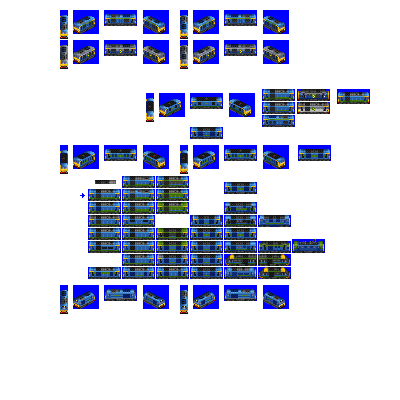
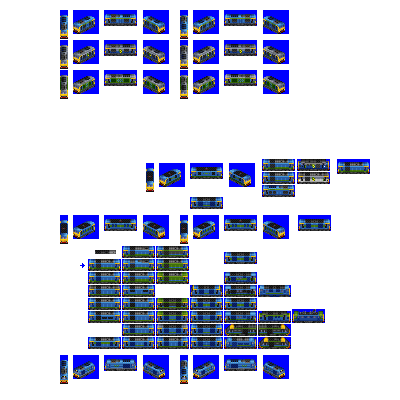
Change: move Super Stentor and Highlander liveries into Stentor and Cheddar Valley as variants

diff --git a/src/vehicles/cheddar_valley.py b/src/vehicles/cheddar_valley.py
@@ -18,13 +18,13 @@ def main(roster_id):
         intro_year_offset=3,  # let's be a little bit later for this one
         gen=5,
         fixed_run_cost_points=210,  # unrealism: run cost nerf for being so high-powered
-        additional_liveries=["YEOMAN"],
+        additional_liveries=["YEOMAN", "DBSCHENKER", "FREIGHTLINER_GBRF"],
         default_livery_extra_docs_examples=[
             ("COLOUR_WHITE", "COLOUR_GREEN"),
             ("COLOUR_ORANGE", "COLOUR_RED"),
         ],
         sprites_complete=True,
-        sprites_additional_liveries_needed=True, # copy liveries from Highlander?
+        sprites_additional_liveries_needed=True,
     )
 
     consist.add_unit(

diff --git a/src/vehicles/stentor.py b/src/vehicles/stentor.py
@@ -19,9 +19,9 @@ def main(roster_id):
         gen=5,
         fixed_run_cost_points=210,  # unrealism: run cost nerf for being so high-powered
         caboose_family="railfreight_2",
-        additional_liveries=["RAILFREIGHT_TRIPLE_GREY"],
+        additional_liveries=["RAILFREIGHT_TRIPLE_GREY", "SWOOSH"],
         sprites_complete=True,
-        sprites_additional_liveries_needed=True, # copy livery from Super Stentor?
+        sprites_additional_liveries_needed=True,
     )
 
     consist.add_unit(
